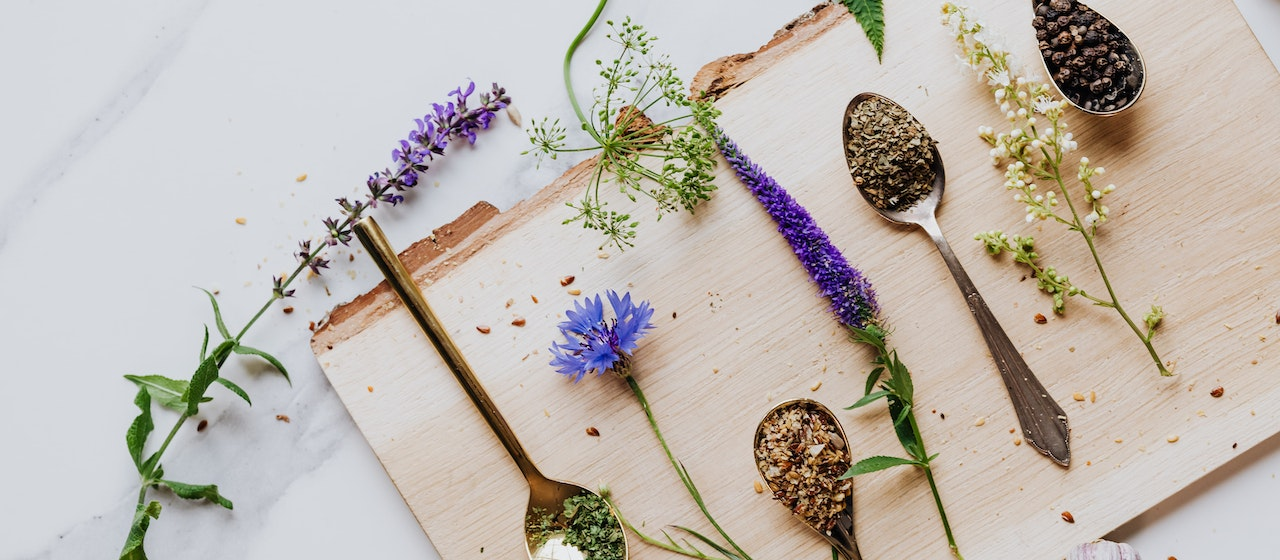
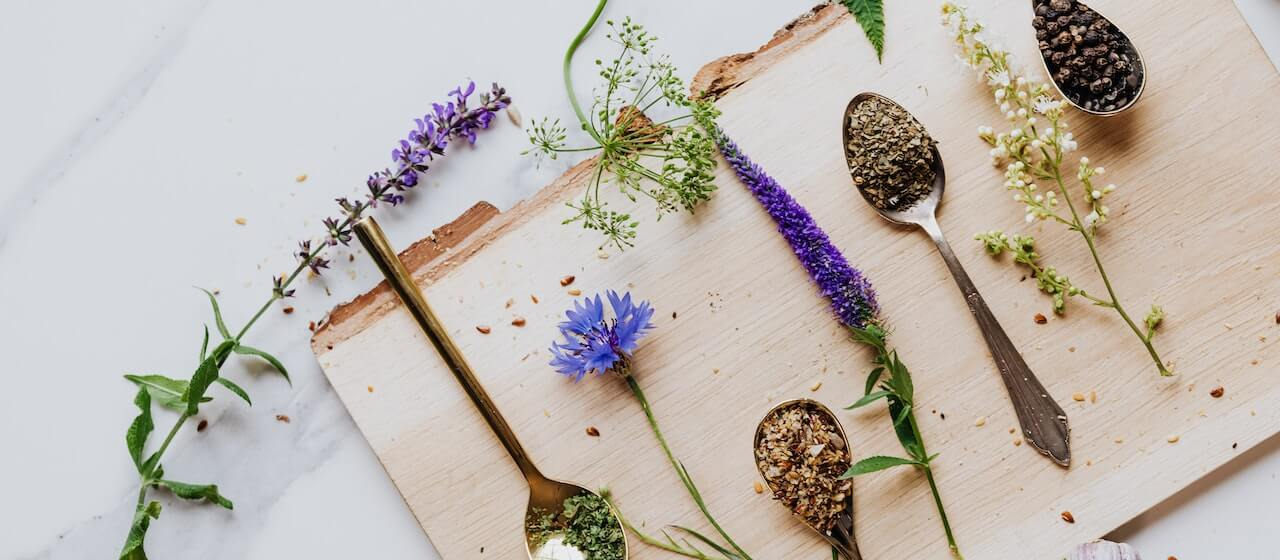
Updates
-Verificación de formulario hecha a mano.
-Contenido en el index ampliado.
-Reducción de tamaño de todas las imágenes del sitio

diff --git a/js/form.js b/js/form.js
@@ -17,24 +17,39 @@ function validar() {
     consultaError.innerHTML = "";
     listaMensajes.innerHTML = "";
 
+    let pat_mail = /^[a-z0-9!#$%&'*+/=?^_`{|}~-]+(?:\.[a-z0-9!#$%&'*+/=?^_`{|}~-]+)*@(?:[a-z0-9](?:[a-z0-9-]*[a-z0-9])?\.)+[a-z0-9](?:[a-z0-9-]*[a-z0-9])?$/;
 
     if (nombre.value.trim() == "") {
-        nombreError.innerHTML = "Nombre inválido";
+        nombreError.innerHTML = "Nombre inválido: Debe completar este campo.";
         nombre.classList.add("error");
         sinError = false;
     }
     if (correo.value.trim() == "") {
-        correoError.innerHTML = "Correo electrónico inválido";
+        correoError.innerHTML = "Correo inválido: Debe completar este campo.";
+        correo.classList.add("error");
+        sinError = false;
+    } else if(!pat_mail.test(correo.value.trim())){
+        correoError.innerHTML = "Correo inválido.";
         correo.classList.add("error");
         sinError = false;
     }
-    if (telefono.value.trim() == "" || !telefono.value.match(/[0-9]/)) {
-        telError.innerHTML = "Teléfono inválido";
+
+    if (telefono.value.trim() == "") {
+        telError.innerHTML = "Teléfono inválido: Debe completar este campo.";
+        telefono.classList.add("error");
+        sinError = false;
+    } else if(!telefono.value.match(/[0-9]/)){
+        telError.innerHTML = "Teléfono inválido: Solo se aceptan números en este campo.";
+        telefono.classList.add("error");
+        sinError = false;
+    } else if(telefono.value.toString().length > 15){
+        telError.innerHTML = "Teléfono inválido: Número muy largo.";
         telefono.classList.add("error");
         sinError = false;
     }
+
     if (consulta.value.trim() == "") {
-        consultaError.innerHTML = "Consulta inválida";
+        consultaError.innerHTML = "Consulta inválida: Debe completar este campo";
         consulta.classList.add("error");
         sinError = false;
     }

diff --git a/index.html b/index.html
@@ -9,7 +9,9 @@
 
     <link rel="preconnect" href="https://fonts.googleapis.com">
     <link rel="preconnect" href="https://fonts.gstatic.com" crossorigin>
-    <link href="https://fonts.googleapis.com/css2?family=Lato:ital@0;1&family=Montserrat:ital,wght@0,400;0,500;0,600;0,700;1,400;1,600&display=swap" rel="stylesheet">
+    <link
+        href="https://fonts.googleapis.com/css2?family=Lato:ital@0;1&family=Montserrat:ital,wght@0,400;0,500;0,600;0,700;1,400;1,600&display=swap"
+        rel="stylesheet">
 </head>
 
 <body>
@@ -77,8 +79,26 @@
                     mala circulación sanguínea.</p>
             </div>
         </div>
-        <div>
 
+        <div class="boton">
+            <a href="./catalogo.html"><button type="vermas">Ver más productos</button></a>
+        </div>
+
+        <div class = "separador">
+            <img src="./img/IMG_5846.jpg" alt="">
+        </div>
+
+        <div class="conocemas">
+            <div>
+                <h2>Más sobre nosotros..</h2>
+                <p>Elaboramos nuestros productos con ingredientes naturales, muchas veces recolectados por nosotros
+                    mismos. Queremos acompañarte en cada paso del camino que estás por comenzar.</p>
+                <a href="./acerca.html"><button type="vermas">Leer más</button></a>
+            </div>
+        </div>
+
+        <div class = "separador">
+            <img src="./img/carrusel2.png" alt="">
         </div>
 
     </main>

diff --git a/css/style.css b/css/style.css
@@ -452,3 +452,55 @@ button p {
     list-style: none;
     color: #ffff;
 }
+
+/*ETC INDEX*/
+
+.boton{
+    /* border: 1px solid red; */
+    text-align: center;
+}
+
+.boton button {
+    width: 20%;
+    color:#fff;
+    margin: auto;
+    margin-bottom: 2%;
+}
+
+.conocemas{
+    text-align: center;
+    margin-top: 3rem;
+    margin-bottom: 3rem;
+}
+
+.conocemas div {
+    margin: auto;
+    padding: 2rem;
+    background-color: #fbfbfb;
+    width: 75%;
+    height: 50%;
+}
+
+.conocemas div > h2{
+    font-size: 200%;
+}
+
+.conocemas div > p{
+    font-size: 125%;
+    text-align: center;
+    padding-top: 1rem;
+}
+
+.conocemas button {
+    background-color: #d4d3d3;
+    width: 20%;
+    color:#0e0e0e;
+    margin: auto;
+    margin-bottom: 2%;
+    margin-top: 2%;
+}
+
+.separador img{
+    width: 100%;
+    height: 100%;
+}

diff --git a/contacto.html b/contacto.html
@@ -38,7 +38,7 @@
                 <p class="input_error" id ="nombreError"></p>
 
                 <label for "correo">Correo electrónico<span class="obligatorio">*</span></label>
-                <input type="email" id="correo" name="correo" placeholder="Ingrese su correo electrónico" />
+                <input type="text" id="correo" name="correo" placeholder="Ingrese su correo electrónico" />
                 <p class="input_error" id ="correoError"></p>
 
                 <label for "telefono">Teléfono<span class="obligatorio">*</span></label>
